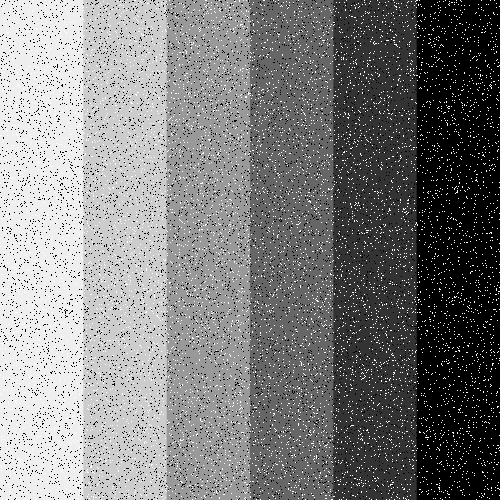
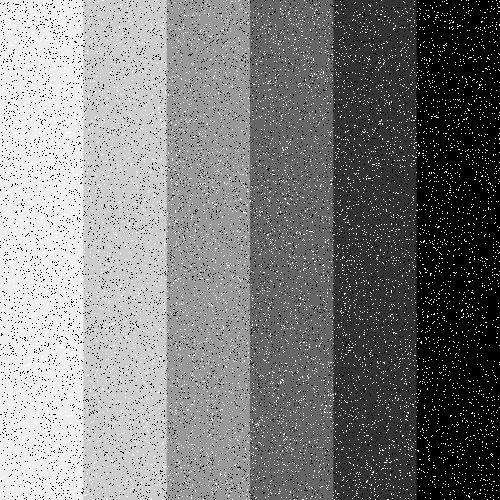
normalized gauss

diff --git a/main.py b/main.py
@@ -54,9 +54,10 @@ for count in range(len(input_imgs)):
     plt.show()
 
     g = cv.GaussianBlur(noise_img, (17, 17), 0)
+    g = np.clip(g, 0, 1)
 
     cv.imshow('{} with low-pass filter'.format(input_imgs[count]), g)
-    cv.imwrite('{}_passa-baixa.jpg'.format(input_imgs[count]), g * 255)
+    cv.imwrite('{}_passa-baixa.png'.format(input_imgs[count]), g * 255)
 
     cv.waitKey(0)
     cv.destroyAllWindows()
